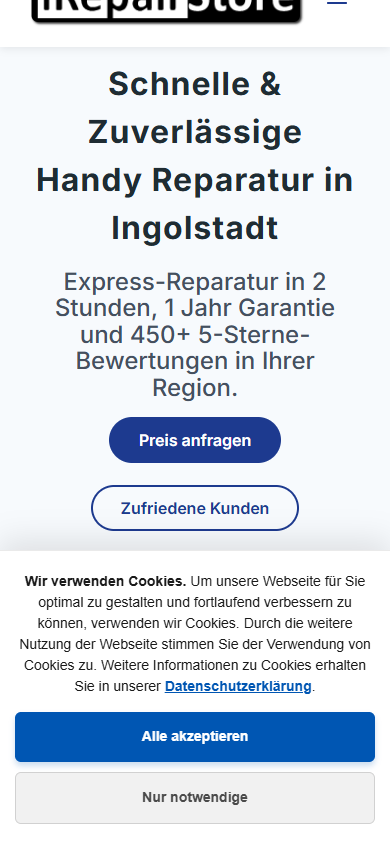
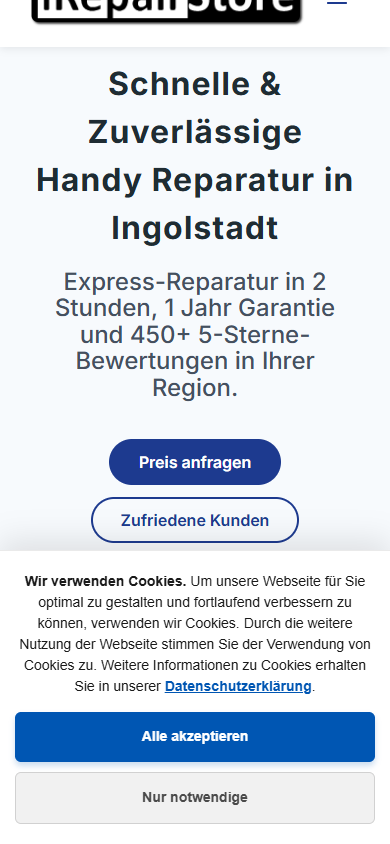
Fix final mobile layout and menu issues

Changed region(s): [[0.2154, 0.4929, 0.7692, 0.6469]]

diff --git a/src/components/Locations.jsx b/src/components/Locations.jsx
@@ -26,7 +26,7 @@ const Locations = () => {
 	</div>
 
 <div className="fl-col-group fl-node-7u493qnkjolz" data-node="7u493qnkjolz">
-			<div className="fl-col fl-node-2pqx1d8rhca7 fl-col-bg-color fl-col-small" data-node="2pqx1d8rhca7">
+			<div className="fl-col fl-node-2pqx1d8rhca7 fl-col-bg-color" data-node="2pqx1d8rhca7">
 	<div className="fl-col-content fl-node-content"><div className="fl-module fl-module-heading fl-node-qkafbo6w9ct4" data-node="qkafbo6w9ct4">
 	<div className="fl-module-content fl-node-content">
 		<h3 className="fl-heading">
@@ -36,7 +36,7 @@ const Locations = () => {
 </div>
 </div>
 </div>
-			<div className="fl-col fl-node-5el3rkn4tsq0 fl-col-bg-color fl-col-small" data-node="5el3rkn4tsq0">
+			<div className="fl-col fl-node-5el3rkn4tsq0 fl-col-bg-color" data-node="5el3rkn4tsq0">
 	<div className="fl-col-content fl-node-content"><div className="fl-module fl-module-heading fl-node-q6nw4hiolp3d fl-visible-desktop fl-visible-large fl-visible-medium" data-node="q6nw4hiolp3d">
 	<div className="fl-module-content fl-node-content">
 		<h3 className="fl-heading">
@@ -49,10 +49,10 @@ const Locations = () => {
 	</div>
 
 <div className="fl-col-group fl-node-jgl10w7f3y9n" data-node="jgl10w7f3y9n">
-			<div className="fl-col fl-node-zynb08mhxfaq fl-col-bg-color fl-col-small fl-col-has-cols" data-node="zynb08mhxfaq">
+			<div className="fl-col fl-node-zynb08mhxfaq fl-col-bg-color fl-col-has-cols" data-node="zynb08mhxfaq">
 	<div className="fl-col-content fl-node-content">
 <div className="fl-col-group fl-node-2b6nhr9qwxkf fl-col-group-nested fl-col-group-equal-height fl-col-group-align-center" data-node="2b6nhr9qwxkf">
-			<div className="fl-col fl-node-0na245qlfwyi fl-col-bg-color fl-col-small" data-node="0na245qlfwyi">
+			<div className="fl-col fl-node-0na245qlfwyi fl-col-bg-color" data-node="0na245qlfwyi">
 	<div className="fl-col-content fl-node-content"><div className="fl-module fl-module-rich-text fl-node-7b98m1hqelfx" data-node="7b98m1hqelfx">
 	<div className="fl-module-content fl-node-content">
 		<div className="fl-rich-text">
@@ -67,7 +67,7 @@ Theresienstraße 2<br />
 </div>
 </div>
 </div>
-			<div className="fl-col fl-node-081twour4p2x fl-col-bg-color fl-col-small" data-node="081twour4p2x">
+			<div className="fl-col fl-node-081twour4p2x fl-col-bg-color" data-node="081twour4p2x">
 	<div className="fl-col-content fl-node-content"><div className="fl-module fl-module-photo fl-node-i28rw0aex3dv" data-node="i28rw0aex3dv">
 	<div className="fl-module-content fl-node-content">
 		<div className="fl-photo fl-photo-align-center" itemScope="" itemType="https://schema.org/ImageObject">
@@ -89,7 +89,7 @@ Theresienstraße 2<br />
 </div>
 </div>
 </div>
-			<div className="fl-col fl-node-17r0zoau59ek fl-col-bg-color fl-col-small fl-col-has-cols" data-node="17r0zoau59ek">
+			<div className="fl-col fl-node-17r0zoau59ek fl-col-bg-color fl-col-has-cols" data-node="17r0zoau59ek">
 	<div className="fl-col-content fl-node-content"><div className="fl-module fl-module-heading fl-node-1eajngrbtfop fl-visible-mobile" data-node="1eajngrbtfop">
 	<div className="fl-module-content fl-node-content">
 		<h3 className="fl-heading">
@@ -99,7 +99,7 @@ Theresienstraße 2<br />
 </div>
 
 <div className="fl-col-group fl-node-uy1aqko2xpci fl-col-group-nested fl-col-group-equal-height fl-col-group-align-center" data-node="uy1aqko2xpci">
-			<div className="fl-col fl-node-lqxyzw87vkgr fl-col-bg-color fl-col-small" data-node="lqxyzw87vkgr">
+			<div className="fl-col fl-node-lqxyzw87vkgr fl-col-bg-color" data-node="lqxyzw87vkgr">
 	<div className="fl-col-content fl-node-content"><div className="fl-module fl-module-rich-text fl-node-pvf5wqzxcjyn" data-node="pvf5wqzxcjyn">
 	<div className="fl-module-content fl-node-content">
 		<div className="fl-rich-text">
@@ -114,7 +114,7 @@ Am Westpark 6<br />
 </div>
 </div>
 </div>
-			<div className="fl-col fl-node-1w7hzos9lc52 fl-col-bg-color fl-col-small" data-node="1w7hzos9lc52">
+			<div className="fl-col fl-node-1w7hzos9lc52 fl-col-bg-color" data-node="1w7hzos9lc52">
 	<div className="fl-col-content fl-node-content"><div className="fl-module fl-module-photo fl-node-wi3a1pm7dehv" data-node="wi3a1pm7dehv">
 	<div className="fl-module-content fl-node-content">
 		<div className="fl-photo fl-photo-align-center" itemScope="" itemType="https://schema.org/ImageObject">

diff --git a/src/components/ServicesSection.jsx b/src/components/ServicesSection.jsx
@@ -38,7 +38,7 @@ const ServicesSection = () => {
 </div>
 
 <div className="fl-col-group fl-node-opkrflauw3mx fl-col-group-nested" data-node="opkrflauw3mx">
-			<div className="fl-col fl-node-mpgc1ydn4xkw fl-col-bg-photo fl-col-small" data-node="mpgc1ydn4xkw">
+			<div className="fl-col fl-node-mpgc1ydn4xkw fl-col-bg-photo" data-node="mpgc1ydn4xkw">
 	<div className="fl-col-content fl-node-content"><div className="fl-module fl-module-spacer-gap fl-node-3674trj8wg2z" data-node="3674trj8wg2z">
 	<div className="fl-module-content fl-node-content">
 		<div className="uabb-module-content uabb-spacer-gap-preview uabb-spacer-gap">
@@ -63,7 +63,7 @@ const ServicesSection = () => {
 </div>
 </div>
 </div>
-			<div className="fl-col fl-node-7xdlv4gw5bzn fl-col-bg-photo fl-col-small" data-node="7xdlv4gw5bzn">
+			<div className="fl-col fl-node-7xdlv4gw5bzn fl-col-bg-photo" data-node="7xdlv4gw5bzn">
 	<div className="fl-col-content fl-node-content"><div className="fl-module fl-module-spacer-gap fl-node-75ukz6codxf8" data-node="75ukz6codxf8">
 	<div className="fl-module-content fl-node-content">
 		<div className="uabb-module-content uabb-spacer-gap-preview uabb-spacer-gap">
@@ -88,7 +88,7 @@ const ServicesSection = () => {
 </div>
 </div>
 </div>
-			<div className="fl-col fl-node-mw8ox6fquavp fl-col-bg-photo fl-col-small" data-node="mw8ox6fquavp">
+			<div className="fl-col fl-node-mw8ox6fquavp fl-col-bg-photo" data-node="mw8ox6fquavp">
 	<div className="fl-col-content fl-node-content"><div className="fl-module fl-module-spacer-gap fl-node-g0kwv6h5iebo" data-node="g0kwv6h5iebo">
 	<div className="fl-module-content fl-node-content">
 		<div className="uabb-module-content uabb-spacer-gap-preview uabb-spacer-gap">
@@ -113,7 +113,7 @@ const ServicesSection = () => {
 </div>
 </div>
 </div>
-			<div className="fl-col fl-node-l0hgu5ojnbwa fl-col-bg-photo fl-col-small" data-node="l0hgu5ojnbwa">
+			<div className="fl-col fl-node-l0hgu5ojnbwa fl-col-bg-photo" data-node="l0hgu5ojnbwa">
 	<div className="fl-col-content fl-node-content"><div className="fl-module fl-module-spacer-gap fl-node-o2ubvd4ienkf" data-node="o2ubvd4ienkf">
 	<div className="fl-module-content fl-node-content">
 		<div className="uabb-module-content uabb-spacer-gap-preview uabb-spacer-gap">
@@ -154,7 +154,7 @@ const ServicesSection = () => {
 </div>
 </div>
 </div>
-			<div className="fl-col fl-node-dxsalnov3cqm fl-col-bg-color fl-col-small" data-node="dxsalnov3cqm">
+			<div className="fl-col fl-node-dxsalnov3cqm fl-col-bg-color" data-node="dxsalnov3cqm">
 	<div className="fl-col-content fl-node-content"><div className="fl-module fl-module-uabb-button fl-node-gtl6b0zqupc1" data-node="gtl6b0zqupc1">
 	<div className="fl-module-content fl-node-content">
 		

diff --git a/src/index.css b/src/index.css
@@ -33662,16 +33662,13 @@ content:"768";
         width: 100vw;
         position: relative;
     }
-    .fl-col-group:not(.fl-col-small), .fl-col-group-nested:not(.fl-col-small), .fl-row-content:not(.fl-col-small) {
-        display: flex !important;
-        flex-direction: column !important;
-        flex-wrap: nowrap !important;
+    .fl-col-group, .fl-col-group-nested, .fl-row-content {
+        display: block !important;
     }
     .fl-col:not(.fl-col-small) {
         width: 100% !important;
         max-width: 100% !important;
-        flex: 0 0 100% !important;
-        margin-bottom: 20px !important;
+        display: block !important;
     }
     /* Global Button fixes for mobile */
     .fl-button, .uabb-button, .ast-button, button, .menu-link {
@@ -33703,15 +33700,19 @@ content:"768";
     .main-navigation {
         display: none;
     }
-    .main-header-bar-navigation {
+    .main-header-bar {
         position: relative;
+    }
+    .main-header-bar-navigation {
+        position: static;
     }
     .main-navigation.toggled {
         display: block !important;
         position: absolute;
         top: 100%;
-        left: -20px; /* Offset to hit screen edge if container has padding */
-        width: 100vw;
+        left: 0;
+        right: 0;
+        width: 100%;
         background: #fff;
         z-index: 9999;
         box-shadow: 0 4px 10px rgba(0,0,0,0.1);
@@ -33723,11 +33724,15 @@ content:"768";
         width: 100%;
         margin: 0;
         padding: 0;
+        background-color: #ffffff !important;
+        z-index: 100000;
+        position: relative;
     }
     .main-navigation.toggled ul.main-header-menu .menu-item {
         width: 100%;
         text-align: left;
         border-bottom: 1px solid #eee;
+        background-color: #ffffff !important;
     }
     .main-navigation.toggled ul.main-header-menu .menu-link {
         padding: 15px 20px !important;

diff --git a/src/components/DetailsSection.jsx b/src/components/DetailsSection.jsx
@@ -19,7 +19,7 @@ const DetailsSection = () => {
 	</div>
 
 <div className="fl-col-group fl-node-hvlu8ym4bpsx fl-col-group-equal-height fl-col-group-align-center" data-node="hvlu8ym4bpsx">
-			<div className="fl-col fl-node-z73xf6dsogev fl-col-bg-color fl-col-small" data-node="z73xf6dsogev">
+			<div className="fl-col fl-node-z73xf6dsogev fl-col-bg-color" data-node="z73xf6dsogev">
 	<div className="fl-col-content fl-node-content"><div className="fl-module fl-module-video fl-node-laueb7v34wj8" data-node="laueb7v34wj8">
 	<div className="fl-module-content fl-node-content">
 		
@@ -36,7 +36,7 @@ const DetailsSection = () => {
 </div>
 </div>
 </div>
-			<div className="fl-col fl-node-7jn9sxwvt8c1 fl-col-bg-color fl-col-small fl-col-has-cols" data-node="7jn9sxwvt8c1">
+			<div className="fl-col fl-node-7jn9sxwvt8c1 fl-col-bg-color fl-col-has-cols" data-node="7jn9sxwvt8c1">
 	<div className="fl-col-content fl-node-content"><div className="fl-module fl-module-info-list fl-node-n9q7gmhysv1p" data-node="n9q7gmhysv1p">
 	<div className="fl-module-content fl-node-content">
 		
@@ -84,7 +84,7 @@ const DetailsSection = () => {
 </div>
 
 <div className="fl-col-group fl-node-iexuc0y2owa7 fl-col-group-nested" data-node="iexuc0y2owa7">
-			<div className="fl-col fl-node-iqj4tu2l5pha fl-col-bg-color fl-col-small" data-node="iqj4tu2l5pha">
+			<div className="fl-col fl-node-iqj4tu2l5pha fl-col-bg-color" data-node="iqj4tu2l5pha">
 	<div className="fl-col-content fl-node-content"><div className="fl-module fl-module-uabb-button fl-node-x9qvdhy0lt82 erstkontakt" data-node="x9qvdhy0lt82">
 	<div className="fl-module-content fl-node-content">
 		

diff --git a/screenshot_full.js b/screenshot_full.js
@@ -1,0 +1,41 @@
+import puppeteer from 'puppeteer';
+import { spawn } from 'child_process';
+import fs from 'fs';
+
+const URL = 'http://localhost:4173';
+
+async function runTests() {
+  console.log('Starting server...');
+  const server = spawn('npm', ['run', 'preview'], { shell: true });
+  
+  await new Promise(resolve => setTimeout(resolve, 3000));
+
+  console.log('Launching browser...');
+  const browser = await puppeteer.launch({ headless: 'new' });
+  const page = await browser.newPage();
+  
+  // 360px viewport
+  await page.setViewport({ width: 360, height: 800 });
+  await page.goto(URL, { waitUntil: 'networkidle0' });
+  await page.screenshot({ path: 'scratch_mobile_360_full.png', fullPage: true });
+
+  // 390px viewport
+  await page.setViewport({ width: 390, height: 844 });
+  await page.goto(URL, { waitUntil: 'networkidle0' });
+  await page.screenshot({ path: 'scratch_mobile_390_full.png', fullPage: true });
+
+  // Check the menu
+  await page.click('.menu-toggle');
+  await new Promise(resolve => setTimeout(resolve, 1000));
+  await page.screenshot({ path: 'scratch_mobile_menu_opened.png', fullPage: false });
+
+  await browser.close();
+  server.kill();
+  console.log('Done.');
+  process.exit(0);
+}
+
+runTests().catch(err => {
+  console.error(err);
+  process.exit(1);
+});
